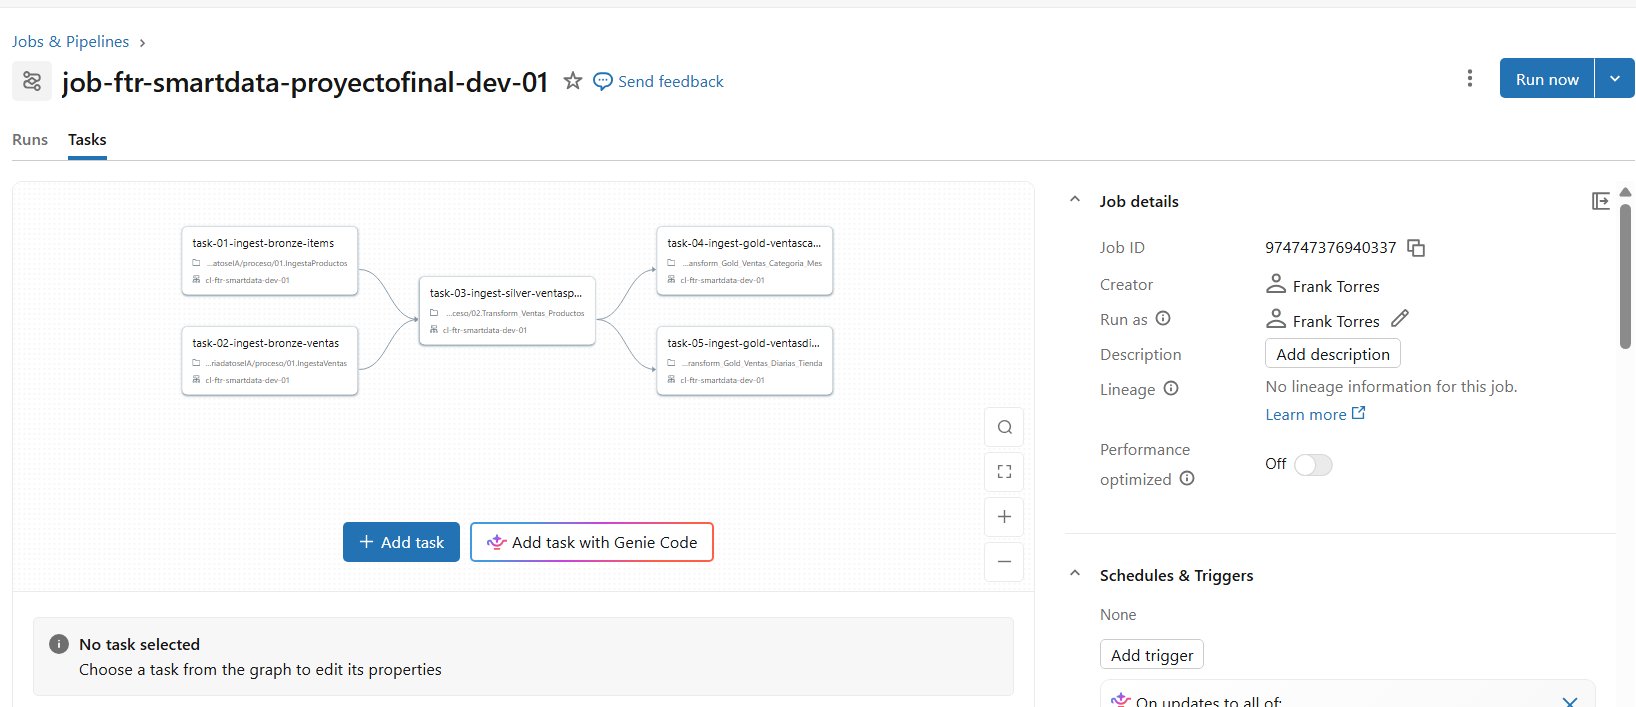
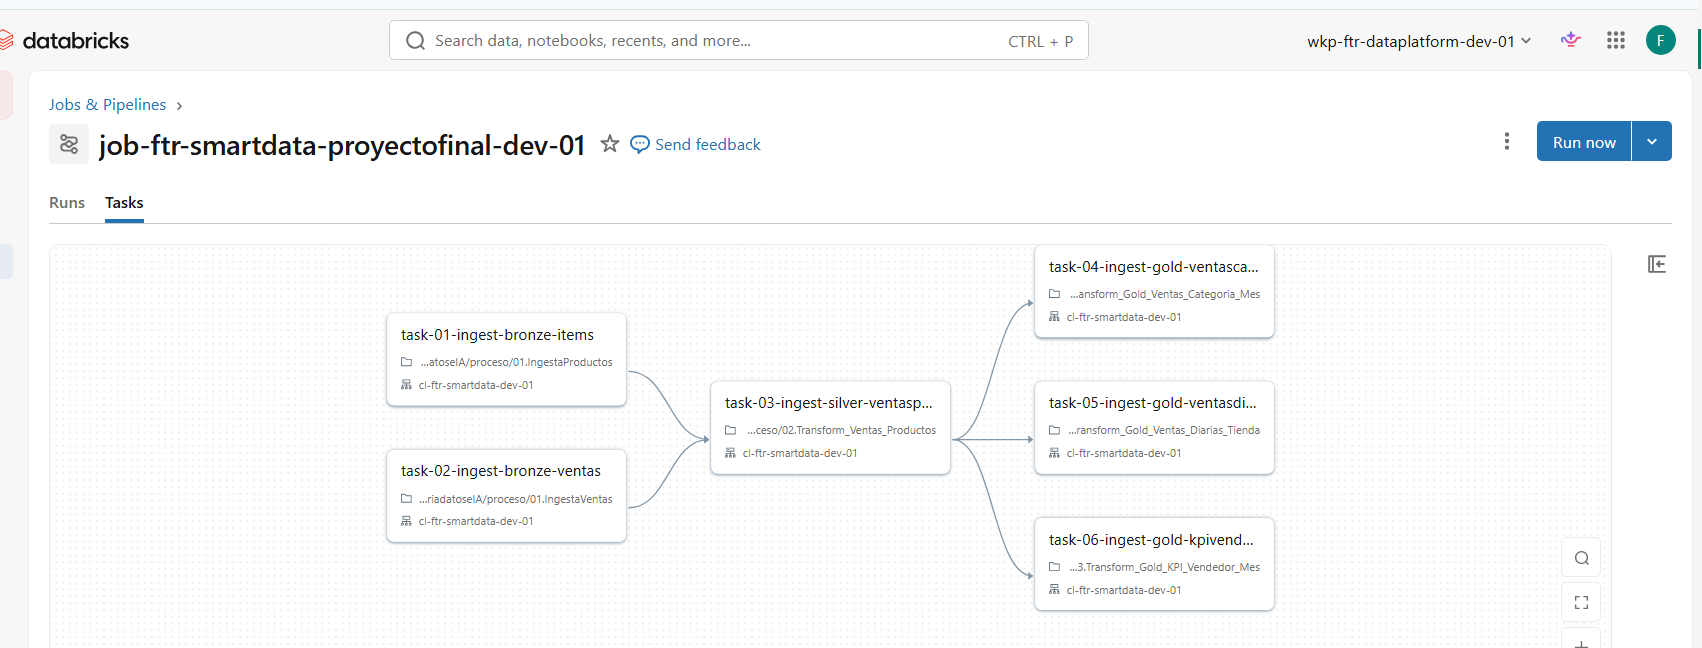
update workflow
upgrade workflow

diff --git a/readme.md b/readme.md
@@ -284,8 +284,39 @@ KPIs mensuales por vendedor y tienda para análisis de rendimiento comercial ind
 
 ---
 
-### 5. Job configurado
-En Databricks Workflows se configuró el job `job-ftr-smartdata-proyectofinal-dev-01`, que encadena los 5 notebooks en orden (ingestas → transformación Silver → agregaciones Golden) respetando sus dependencias.
+### 5. Job de orquestación
+
+El job [`job-ftr-smartdata-proyectofinal-dev-01`](#job-974747376940337) coordina la ejecución completa del pipeline Medallion (Bronze → Silver → Gold) sobre el cluster `cl-ftr-smartdata-dev-01`. Está compuesto por **6 tareas** con dependencias explícitas: las dos ingestas Bronze arrancan en paralelo, la transformación Silver espera a ambas, y las tres agregaciones Gold se ejecutan en paralelo una vez que Silver completa.
+
+#### Tareas y dependencias
+
+| Tarea | Notebook | Capa | Tabla producida | Depende de |
+|---|---|---|---|---|
+| `task-01-ingest-bronze-items` | `01.IngestaProductos` | Bronze | `bronze.productos` | — |
+| `task-02-ingest-bronze-ventas` | `01.IngestaVentas` | Bronze | `bronze.ventas` | — |
+| `task-03-ingest-silver-ventasproductos` | `02.Transform_Ventas_Productos` | Silver | `silver.ventas_productos_categorias` | task-01 + task-02 |
+| `task-04-ingest-gold-ventascategoria` | `03.Transform_Gold_Ventas_Categoria_Mes` | Gold | `golden.ventas_categoria_mes` | task-03 |
+| `task-05-ingest-gold-ventasdiarias` | `03.Transform_Gold_Ventas_Diarias_Tienda` | Gold | `golden.ventas_diarias_tienda` | task-03 |
+| `task-06-ingest-gold-kpivendedormes` | `03.Transform_Gold_KPI_Vendedor_Mes` | Gold | `golden.kpi_vendedor_mes` | task-03 |
+
+#### Grafo de dependencias
+
+```
+[Bronze]  task-01 ─ IngestaProductos ─┐
+                                       ├► [Silver] task-03 ─ Transform_Ventas_Productos ─┬► [Gold] task-04 ─ Ventas_Categoria_Mes
+[Bronze]  task-02 ─ IngestaVentas ───┘                                              ├► [Gold] task-05 ─ Ventas_Diarias_Tienda
+                                                                                     └► [Gold] task-06 ─ KPI_Vendedor_Mes
+```
+
+#### Configuración del job
+
+| Parámetro | Valor |
+|---|---|
+| Cluster | `cl-ftr-smartdata-dev-01` |
+| Runs concurrentes máximos | 1 |
+| Cola habilitada | Sí |
+| Política de ejecución de tareas | `ALL_SUCCESS` — si una tarea falla, las dependientes se cancelan |
+| Optimización | `PERFORMANCE_OPTIMIZED` |
 
 ![Flujo de Trabajo](evidencias/Databricks/Worflow_Ejecucion.png)
 
